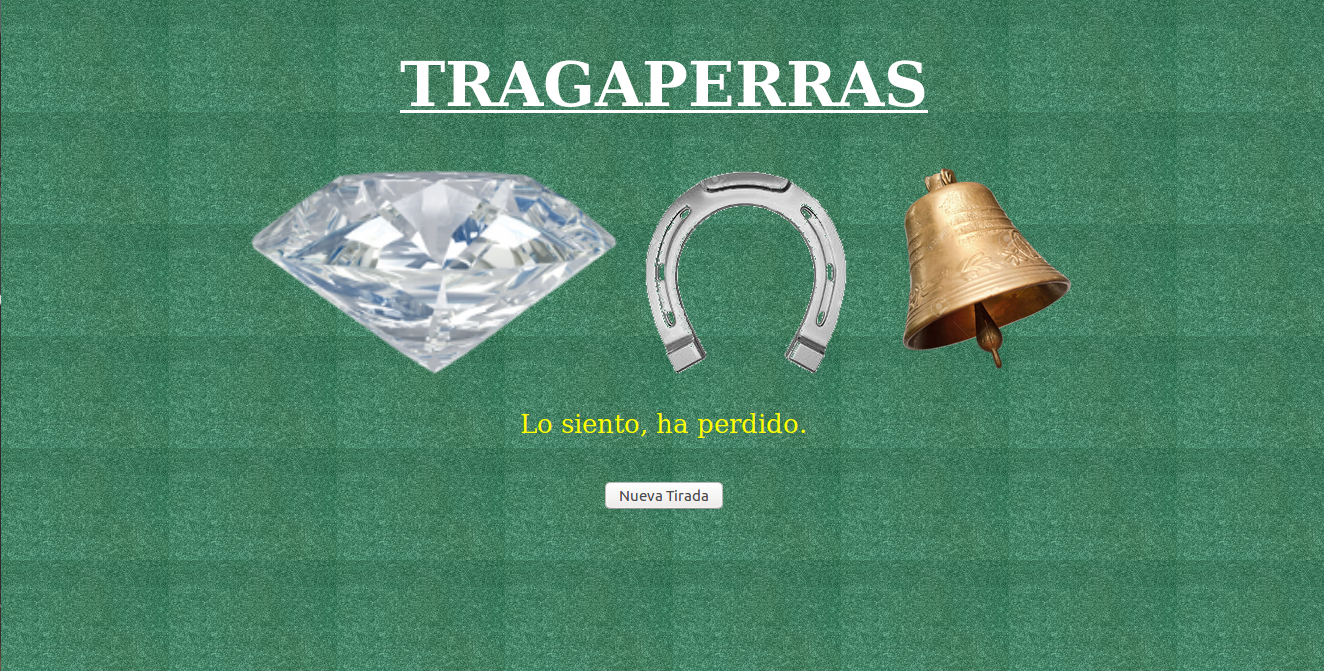
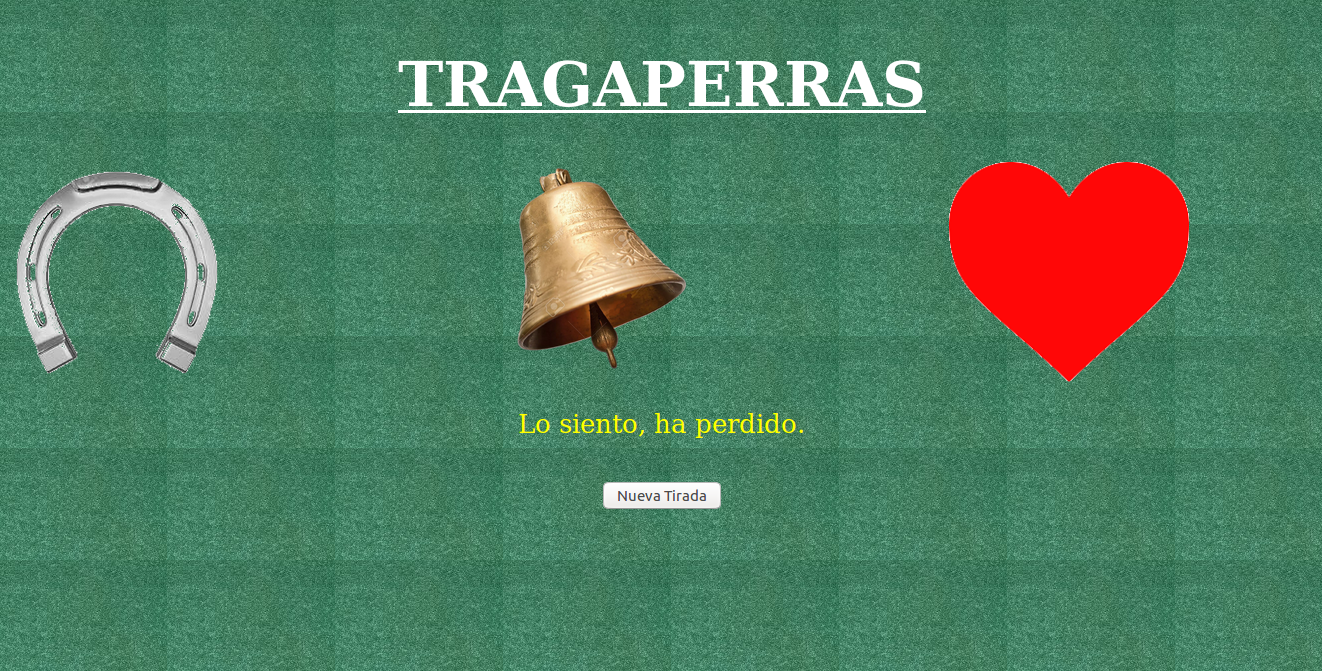
actualización de mejora

Changed region(s): [[0.0, 0.0, 0.6823, 1.0], [0.6823, 0.2385, 0.8994, 0.5663]]

diff --git a/estilos.css b/estilos.css
@@ -12,6 +12,11 @@ and open the template in the editor.
     justify-content: center;
 }
 
+.imagenes{ 
+    display: flex;
+    justify-content: space-between;
+}
+
 .cabecera{
     
     color: white;
